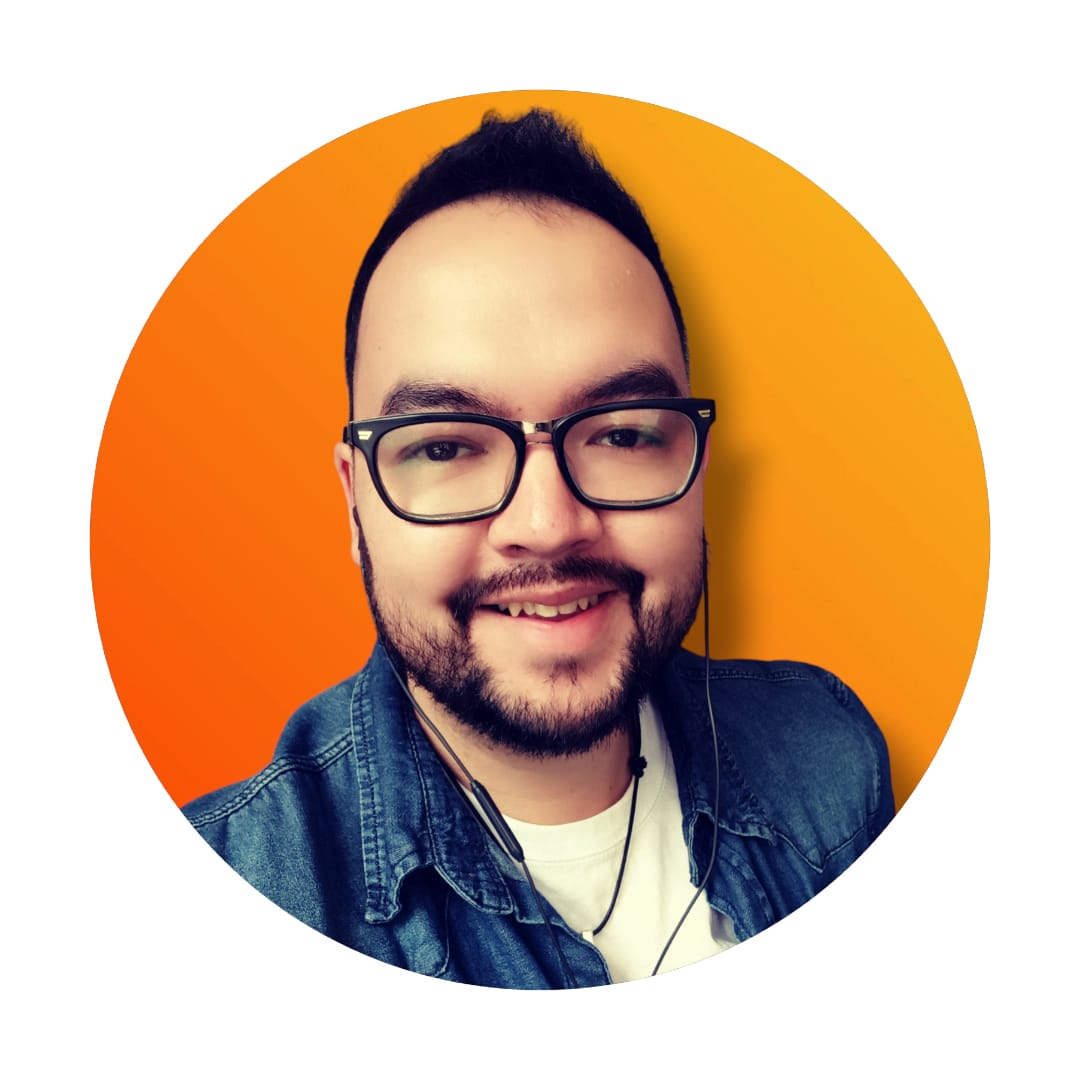
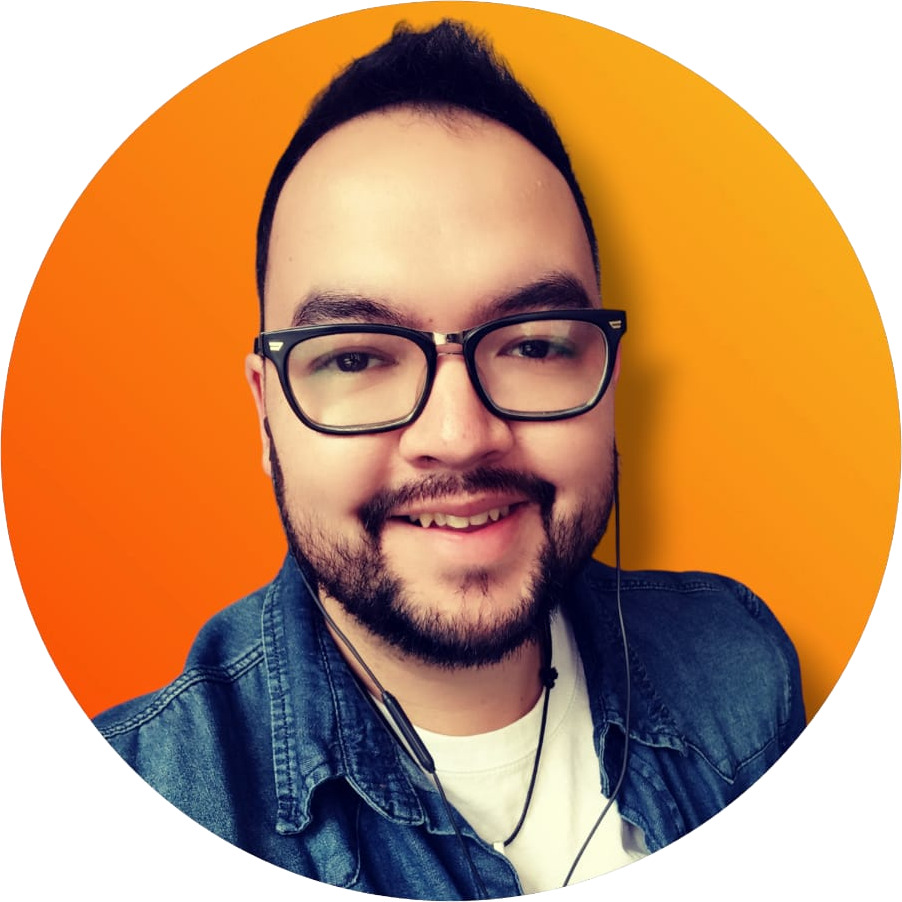
Estructura principal del portfolio completada. Añadido header, secciones de Sobre mí, Habilidades y Proyectos, y el footer. Mejorado el estilo general.

diff --git a/index.html b/index.html
@@ -6,21 +6,16 @@
     <meta name="description" content="Portfolio web de Miguel Adrián Sosa">
     <title>Portfolio | Miguel Adrián Sosa</title>
     <link rel="stylesheet" href="css/styles.css">
-    <!-- Bootstrap CSS -->
     <link href="https://cdn.jsdelivr.net/npm/bootstrap@5.3.3/dist/css/bootstrap.min.css" rel="stylesheet">
 </head>
 <body>
-    <!-- Encabezado -->
     <header class="bg-light py-4">
-        <div class="container d-flex align-items-center">
-            <!-- Foto de perfil -->
-            <img src="img/profile.jpg" alt="Foto de perfil" class="rounded-circle me-4" style="width: 150px; height: 150px;">
-            
-            <!-- Contenido del encabezado -->
-            <div>
+        <div class="container header-container">
+            <img src="img/profile.jpg" alt="Foto de perfil" class="rounded-circle">
+            <div class="text-content">
                 <h1>Miguel Adrián Sosa</h1>
                 <p>Analista programador || Desarrollador Full Stack Python || Diseñador UX - UI.</p>
-                <div class="d-flex gap-2">
+                <div class="d-flex flex-wrap gap-2" style="padding-bottom: 12px;">
                     <a href="mailto:migueladriansosa@gmail.com" class="btn btn-primary">migueladriansosa@gmail.com</a>
                     <a href="path/to/cv.pdf" class="btn btn-secondary">CV</a>
                     <a href="https://github.com/miguesosa" class="btn btn-dark" target="_blank">GitHub</a>
@@ -30,14 +25,16 @@
         </div>
     </header>
 
-    <!-- Sección "Sobre mí" -->
-    <section id="sobre-mi" class="container py-5">
+    <section id="sobre-mi" class="container section">
         <h2>Sobre mí</h2>
         <p>Soy un desarrollador web con sólida formación en programación. Completé los cursos intensivos de Full Stack Python y Diseño UX/UI en Codo a Codo 4.0 - Buenos Aires Ciudad, y cuento con conocimientos sólidos en lógica de programación, POO y análisis de sistemas informáticos adquiridos durante mi actual formación en la carrera de Analista Programador en la UAI. Soy una persona proactiva y adaptable, con un enfoque metódico y una gran capacidad para aprender rápidamente. Me apasiona la tecnología y busco oportunidades para desarrollar mis habilidades en un entorno dinámico y colaborativo.</p>
     </section>
 
-    <!-- Sección "habilidades" -->
-    <section id="habilidades" class="container py-5">
+    <div class="container">
+        <hr>
+    </div>
+    
+    <section id="habilidades" class="container section">
         <h2>Tecnologías</h2>
         <div class="row">
             <div class="col-md-4">
@@ -66,9 +63,8 @@
             </div>
         </div>
     </section>
-
-    <!-- Sección "Proyectos" -->
-    <section id="proyectos" class="container py-5">
+    
+    <section id="proyectos" class="container section">
         <h2>Proyectos</h2>
         <div class="row">
             <div class="col-md-6">
@@ -82,17 +78,20 @@
         </div>
     </section>
 
-    <!-- Sección "Contacto" -->
-    <section id="contacto" class="container py-5">
-        <h2>Contacto</h2>
-        <ul>
-            <li>Email: <a href="mailto:migueladriansosa@gmail.com">migueladriansosa@gmail.com</a></li>
-            <li>GitHub: <a href="https://github.com/miguesosa" target="_blank">GitHub</a></li>
-            <li>LinkedIn: <a href="https://linkedin.com/in/miguel-adrian-sosa" target="_blank">LinkedIn</a></li>
-        </ul>
-    </section>
+    <div class="container">
+        <hr>
+    </div>
 
-    <!-- Bootstrap JS -->
+    <footer class="container footer">
+        <p>Miguel Adrián Sosa</p>
+        <div class="d-flex flex-wrap gap-2 footer-buttons">
+            <a href="mailto:migueladriansosa@gmail.com" class="btn btn-primary">migueladriansosa@gmail.com</a>
+            <a href="path/to/cv.pdf" class="btn btn-secondary">CV</a>
+            <a href="https://github.com/miguesosa" class="btn btn-dark" target="_blank">GitHub</a>
+            <a href="https://linkedin.com/in/miguel-adrian-sosa" class="btn btn-primary" target="_blank">LinkedIn</a>
+        </div>
+    </footer>
+
     <script src="https://cdn.jsdelivr.net/npm/bootstrap@5.3.3/dist/js/bootstrap.bundle.min.js"></script>
     <script src="js/main.js"></script>
 </body>

diff --git a/css/styles.css b/css/styles.css
@@ -1,0 +1,53 @@
+/* Estilos generales */
+body {
+    margin: 0;
+    font-family: Arial, sans-serif;
+}
+
+/* Encabezado */
+.header-container {
+    display: flex;
+    align-items: center;
+    flex-wrap: wrap;
+    gap: 20px;
+}
+
+.header-container img {
+    width: 120px;
+    height: 120px;
+}
+
+.header-container .text-content {
+    margin-left: 20px;
+}
+
+/* Secciones */
+.section {
+    padding: 5px;
+}
+
+/* Estilos para los hr */
+.hr-container {
+    display: flex;
+    justify-content: center;
+}
+
+.hr-container hr {
+    border: 1px solid #ccc;
+}
+
+/* Footer */
+.footer {
+    background-color: #f8f9fa;
+    padding: 10px 0;
+    text-align: left;
+}
+
+.footer p {
+    margin-bottom: 10px;
+}
+
+.footer-buttons {
+    display: flex;
+    gap: 10px;
+}
